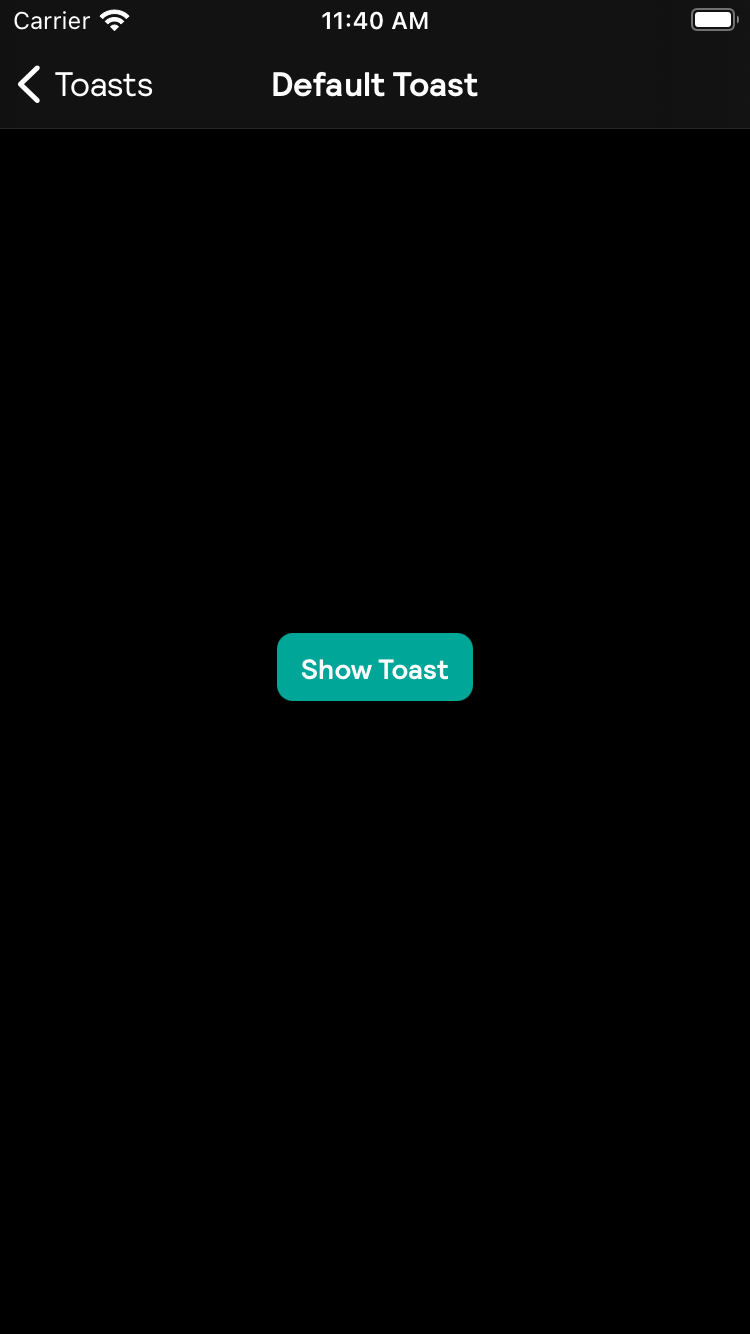
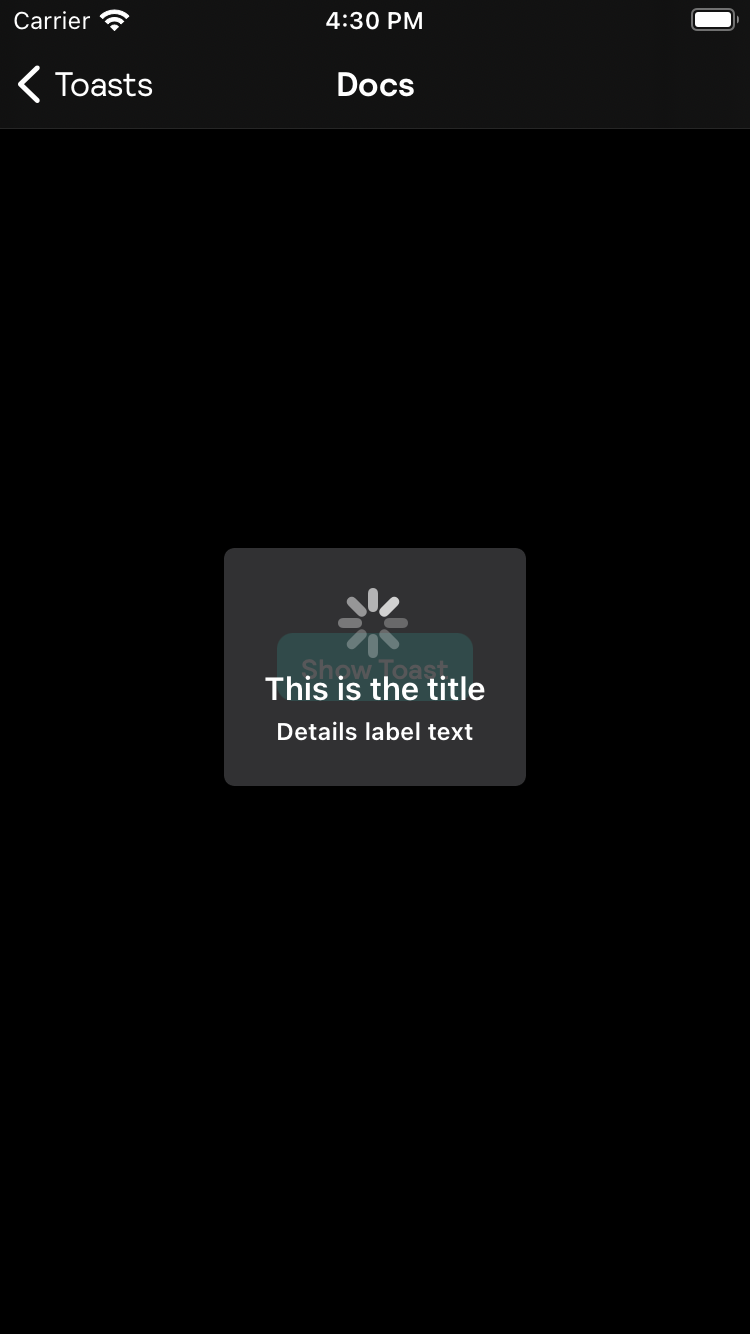
[No JIRA] Fix Toast screenshots
The animation in combination with the disabled animations in UI tests
was causing the toast screenshots to miss the Toast itself when
displayed. This commit solves that by having a new story that shows a
persisted Toast which never disappears(outside of leaving the screen).

Changed region(s): [[0.276, 0.3996, 0.7053, 0.6147], [0.368, 0.0, 0.644, 0.0922]]

diff --git a/Example/Backpack/Stories/ToastStory.swift b/Example/Backpack/Stories/ToastStory.swift
@@ -1,0 +1,50 @@
+/*
+ * Backpack - Skyscanner's Design System
+ *
+ * Copyright © 2021 Skyscanner Ltd. All rights reserved.
+ *
+ * Licensed under the Apache License, Version 2.0 (the "License");
+ * you may not use this file except in compliance with the License.
+ * You may obtain a copy of the License at
+ *
+ *   http://www.apache.org/licenses/LICENSE-2.0
+ *
+ * Unless required by applicable law or agreed to in writing, software
+ * distributed under the License is distributed on an "AS IS" BASIS,
+ * WITHOUT WARRANTIES OR CONDITIONS OF ANY KIND, either express or implied.
+ * See the License for the specific language governing permissions and
+ * limitations under the License.
+ */
+
+import Foundation
+
+enum ToastStory: String, StoryGroup {
+    case docs = "Docs"
+    case `default` = "Default"
+    case onlyLabels = "With labels only"
+
+    var title: String {
+        self.rawValue
+    }
+
+    var presentableStory: Presentable {
+        let storyboard = loadStoryboard(name: "Main")
+        let presentable = storyboard("ToastViewController")
+
+        return presentable.enrich {
+            let toastVc = $0 as? ToastViewController
+            toastVc?.type = toastViewControllerType
+        }
+    }
+
+    private var toastViewControllerType: ToastType {
+        switch self {
+        case .docs:
+            return .docs
+        case .default:
+            return .defaultToast
+        case .onlyLabels:
+            return .onlyLabels
+        }
+    }
+}

diff --git a/Example/Backpack/ViewControllers/ToastViewController.swift b/Example/Backpack/ViewControllers/ToastViewController.swift
@@ -21,6 +21,7 @@ import UIKit
 import Backpack
 
 enum ToastType {
+    case docs
     case defaultToast
     case onlyLabels
 }
@@ -31,11 +32,20 @@ class ToastViewController: UIViewController {
 
     @IBAction func show(_ sender: BPKButton) {
         switch type {
+        case .docs:
+            showPersistentToast()
         case .defaultToast:
             showDefaultToast()
         case .onlyLabels:
             showToastOnlyLabels()
         }
+    }
+
+    func showPersistentToast() {
+        let toast = BPKToast.showAdded(to: self.view, animated: true)
+        toast.mode = .indeterminate
+        toast.labelText = "This is the title"
+        toast.detailsLabelText = "Details label text"
     }
 
     func showDefaultToast() {

diff --git a/Example/Backpack/NavigationData.swift b/Example/Backpack/NavigationData.swift
@@ -97,7 +97,9 @@ class NavigationData: NSObject {
             Item(name: "Tappable link labels", value: .story(loadStoryboard(name: "TappableLinkLabels", identifier: "TappableLinkLabelsViewController")))
             Item(name: "Text fields", value: .story(loadStoryboard(name: "TextField", identifier: "TextFieldViewController")))
             Item(name: "Text views", value: .story(mainStoryboard("TextViewsViewController")))
-            Item(name: "Toasts", value: .story(loadStoryboard(name: "Toasts", identifier: "ToastsViewController")))
+            Group(name: "Toasts") {
+                ToastStory.allExamples
+            }
         }
     }
 

diff --git a/Example/Backpack Screenshot/Screenshots.swift b/Example/Backpack Screenshot/Screenshots.swift
@@ -460,7 +460,7 @@ class Screenshots: XCTestCase {
         }
 
         navigate(title: "Toasts") {
-            app.tables.staticTexts["Default toast"].tap()
+            app.tables.staticTexts["Docs"].tap()
             app.buttons["Show Toast"].tap()
             saveScreenshot(component: "toast", scenario: "default", userInterfaceStyle: userInterfaceStyle)
             tapBackButton()

diff --git a/Example/Backpack NativeUITests/ToastUITest.swift b/Example/Backpack NativeUITests/ToastUITest.swift
@@ -26,7 +26,7 @@ class ToastUITest: BackpackUITestCase {
 
     func navigateAndShow() {
         app.tables.staticTexts["Toasts"].tap()
-        app.tables.staticTexts["Default toast"].tap()
+        app.tables.staticTexts["Default"].tap()
         app.buttons["Show Toast"].tap()
     }
 
